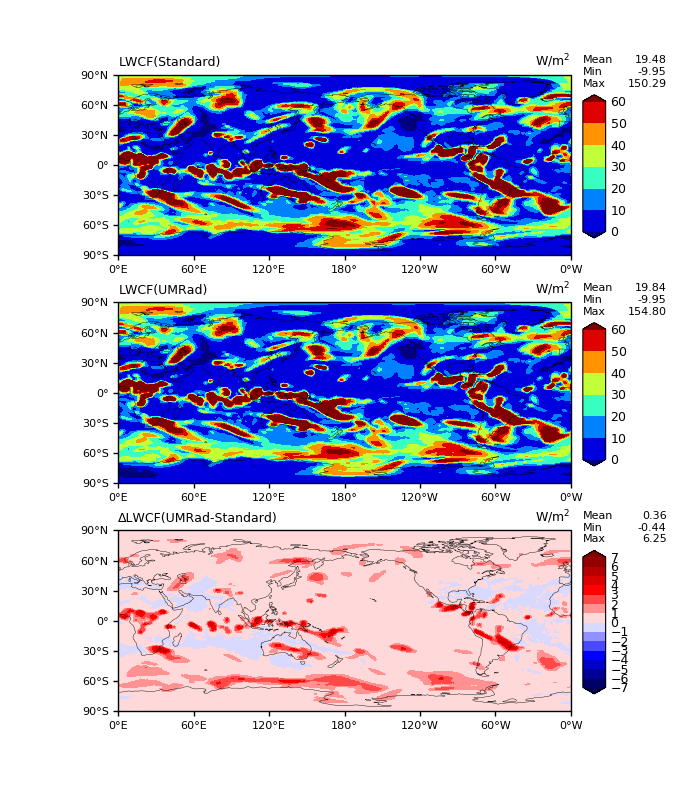
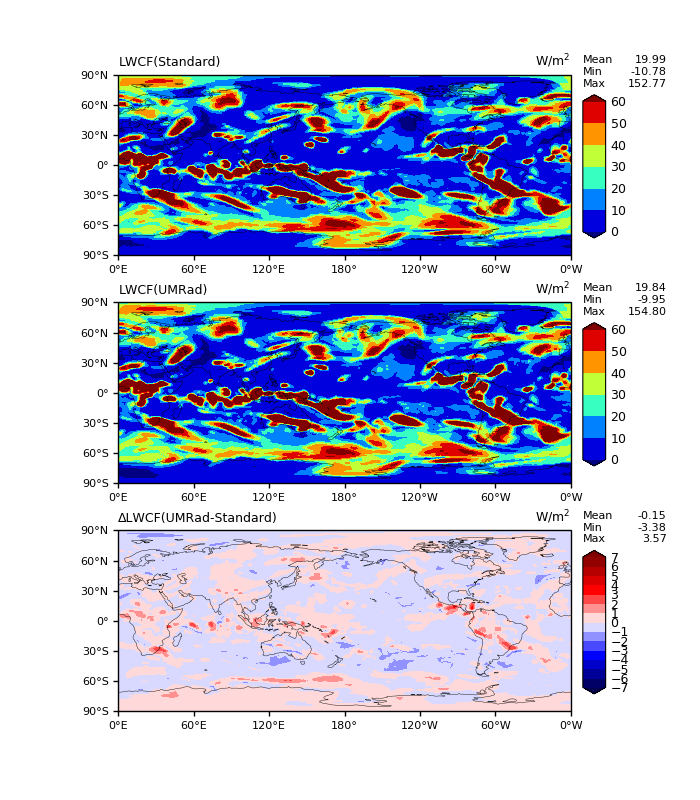
plot 7

diff --git a/d1_lon_lat_contour_model_vs_model_sgl.py b/d1_lon_lat_contour_model_vs_model_sgl.py
@@ -25,10 +25,10 @@ ctl_name="UMRad" #os.environ["ctl_name"]
 exp_name="Standard" #os.environ["exp_name"]
 #fpath_ctl='/global/cscratch1/sd/xianwen/E3SM_simulations/E3SM_v2_alpha_AMIP_RRTMG_UMRad_startover.ne30_ne30.cori-knl/archive/remap_180x360_orig_new/'
 #fpath_exp='/global/cscratch1/sd/xianwen/E3SM_simulations/E3SM_v2_alpha_AMIP_RRTMG_UMRad_startover.ne30_ne30.cori-knl/archive/remap_180x360_UMRad_bug/'
-#fpath_ctl='/global/cscratch1/sd/xianwen/E3SM_simulations/AMIP_RRTMG_UMRad_scat_offline.ne30_ne30.cori-knl/archive/remap_180x360/'
-#fpath_exp='/global/cscratch1/sd/xianwen/E3SM_simulations/AMIP_RRTMG_UMRad_scat_offline.ne30_ne30.cori-knl/archive/remap_180x360/'
-fpath_ctl='/global/cscratch1/sd/xianwen/E3SM_simulations/CMIP_RRTMG_UMRad_scat_offline.ne30_ne30.cori-knl-ens0/archive/remap_180x360/'
-fpath_exp='/global/cscratch1/sd/xianwen/E3SM_simulations/CMIP_RRTMG_UMRad_scat_offline.ne30_ne30.cori-knl-ens0/archive/remap_180x360/'
+fpath_ctl='/global/cscratch1/sd/xianwen/E3SM_simulations/AMIP_RRTMG_UMRad_scat_offline.ne30_ne30.cori-knl/archive/remap_180x360/'
+fpath_exp='/global/cscratch1/sd/xianwen/E3SM_simulations/AMIP_RRTMG_UMRad_scat_offline.ne30_ne30.cori-knl/archive/remap_180x360/'
+#fpath_ctl='/global/cscratch1/sd/xianwen/E3SM_simulations/CMIP_RRTMG_UMRad_scat_offline.ne30_ne30.cori-knl-ens0/archive/remap_180x360/'
+#fpath_exp='/global/cscratch1/sd/xianwen/E3SM_simulations/CMIP_RRTMG_UMRad_scat_offline.ne30_ne30.cori-knl-ens0/archive/remap_180x360/'
 #fpath_ctl='/global/cscratch1/sd/xianwen/E3SM_simulations/CMIP_RRTMG_UMRad_abs.ne30_ne30.cori-knl/archive/remap_180x360/'
 #fpath_exp='/global/cscratch1/sd/xianwen/E3SM_simulations/CMIP_RRTMG_UMRad_scat.ne30_ne30.cori-knl/archive/remap_180x360/'
 
@@ -37,10 +37,10 @@ fpath_exp='/global/cscratch1/sd/xianwen/E3SM_simulations/CMIP_RRTMG_UMRad_scat_o
 #f1=fpath_ctl+"E3SMv2_offline_ICEFLAG1_full2_noEmis_climo_ANN.nc"
 #f2=fpath_exp+"E3SMv2_offline_ICEFLAG1_full2_noEmis_climo_ANN.nc"
 #f1=fpath_ctl+"E3SM_v2_alpha_AMIP_RRTMGP.ne30_ne30.cori-knl.cam.h0.0001-01-01-00000.nc"
-#f1=fpath_ctl+"AMIP_RRTMG_UMRad_scat_offline.ne30_ne30.cori-knl.cam.h0.2000-01-03-00000.nc"
-#f2=fpath_exp+"AMIP_RRTMG_UMRad_scat_offline.ne30_ne30.cori-knl.cam.h0.2000-01-03-00000.nc"
-f1=fpath_ctl+"CMIP_RRTMG_UMRad_scat_offline.ne30_ne30.cori-knl-ens0.cam.h0.2000-07.nc"
-f2=fpath_exp+"CMIP_RRTMG_UMRad_scat_offline.ne30_ne30.cori-knl-ens0.cam.h0.2000-07.nc"
+f1=fpath_ctl+"AMIP_RRTMG_UMRad_scat_offline.ne30_ne30.cori-knl.cam.h0.2000-01-03-00000.nc"
+f2=fpath_exp+"AMIP_RRTMG_UMRad_scat_offline.ne30_ne30.cori-knl.cam.h0.2000-01-03-00000.nc"
+#f1=fpath_ctl+"CMIP_RRTMG_UMRad_scat_offline.ne30_ne30.cori-knl-ens0.cam.h0.2000-07.nc"
+#f2=fpath_exp+"CMIP_RRTMG_UMRad_scat_offline.ne30_ne30.cori-knl-ens0.cam.h0.2000-07.nc"
 #f1=fpath_ctl+"CMIP_RRTMG_UMRad_abs.ne30_ne30.cori-knl.cam.h0.2000-01.nc"
 #f2=fpath_exp+"CMIP_RRTMG_UMRad_scat.ne30_ne30.cori-knl.cam.h0.2000-01.nc"
 
@@ -62,8 +62,8 @@ varnm2="LWCF"
 #varnm_off="FLUTC_OFF"  #offline computation
 units=r"W/m$^2$"
 #units=""
-#figure_name="lat_lon_"+varnm2+"_offline_umrad_vs_standd_"+exp_name+"-"+ctl_name+".png"
-figure_name="lat_lon_"+varnm2+"_offline_scat_vs_noscat_"+exp_name+"-"+ctl_name+".png"
+figure_name="lat_lon_"+varnm2+"_offline_umrad_vs_standd_"+exp_name+"-"+ctl_name+".png"
+#figure_name="lat_lon_"+varnm2+"_offline_scat_vs_noscat_"+exp_name+"-"+ctl_name+".png"
 #figure_name="lat_lon_"+varnm+"500mb_"+exp_name+"-"+ctl_name+".png"
 
 #lev250=np.min(np.where(lev[:]>250.))
@@ -119,8 +119,8 @@ panel = [(0.1691, 0.6810, 0.6465, 0.2258), \
          ]
 #labels=[exp_name,ctl_name,varnm+" 500mb ("+exp_name+"-"+ctl_name+")"] 
 #labels=[exp_name,ctl_name,exp_name+"-"+ctl_name] 
-#labels=[varnm2+"(Standard)",varnm2+"(UMRad)","\u0394"+varnm2+"(UMRad-Standard)"] 
-labels=[varnm2+"(noScat)",varnm2+"(Scat)","\u0394"+varnm2+"(Scat-noScat)"] 
+labels=[varnm2+"(Standard)",varnm2+"(UMRad)","\u0394"+varnm2+"(UMRad-Standard)"] 
+#labels=[varnm2+"(noScat)",varnm2+"(Scat)","\u0394"+varnm2+"(Scat-noScat)"] 
 #units=parameters["units"]
 #units="W/m2"
 #units="kg/m2"
@@ -204,7 +204,7 @@ for i in range(0,3):
              stats[0:3], ha='right', fontdict=plotText)
 
 #fig.suptitle(varnm, x=0.5, y=0.96, fontsize=14)
-fig.suptitle("July", x=0.5, y=0.96, fontdict=plotTitle)
+#fig.suptitle("July", x=0.5, y=0.96, fontdict=plotTitle)
 #save figure as file
 #if os.environ["fig_save"]=="True":
 #    fname="d1_lon_lat_contour_"+varnm+"_"+season+"."+os.environ["fig_suffix"]
